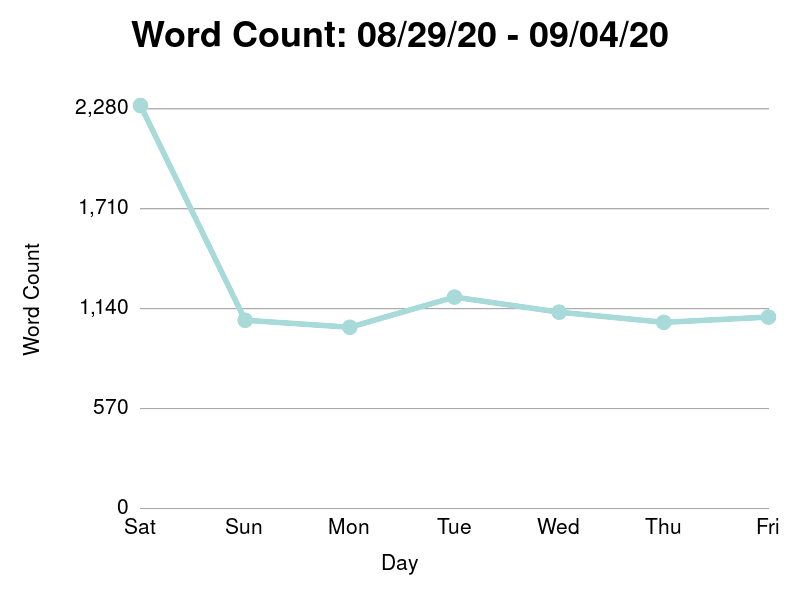
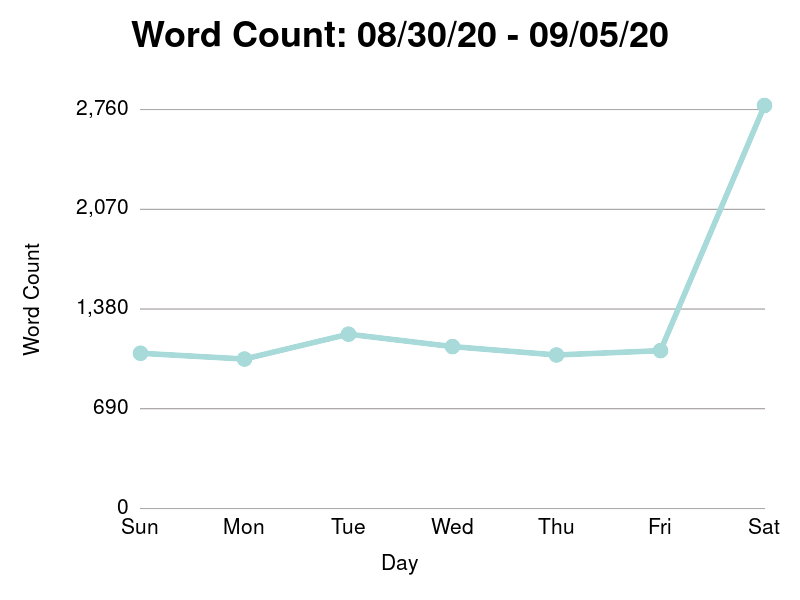
Starbs

diff --git a/entries/2020-09-05.md b/entries/2020-09-05.md
@@ -1,0 +1,331 @@
+---
+title: looking back on starbucks
+---
+
+Dear Journal,
+
+It was the Fall of 2006, and I was looking for my first job.  The day
+after turning sixteen years old, I jumped in my tiny Saturn Sedan
+sporting a crisp pair of khakis and a collared shirt.  A single
+printed sheet of paper lay on the seat beside me.  My "resume" boasted
+a respectable year long tenure of stocking vending machines at my
+church after school.  I even had references.
+
+I left my information with anyone who would talk to me.  Dunkin'
+Donuts.  Domino's Pizza.  Taco Bell.  I had a promising interaction
+with the surly owner of the family run breakfast diner by our
+neighborhood.  But as much as I liked the idea of forging my own way
+into a job, I took a glamorous position at Target on the coat tails of
+my sister Kelly.
+
+Kelly, who had also held down a job since the day she turned sixteen,
+was practically the queen of Target.  After school, she could be seen
+in her sharp red polo and neatly tied apron running the humble Pizza
+Hut express counter like a well oiled machine.  And even though the
+Pizza Hut counter was her usual beat, she was often asked to fill in
+on register, and stocking shelves.  She was a well known, well liked
+face of the Schaumburg Target.
+
+"So you're Kelly's brother," said the store manager.  Kelly's brother
+was promptly hired the following weekend on a recommendation from
+Kelly.
+
+As a general Target employee, I was a big stinking failure.  Despite
+living next to the store all my life, I didn't know where anything
+was.  I could barely count money.  I didn't know how to fold clothes.
+For the first month, my frequent changes in responsibility gave me the
+feeling that Target was just sort of putting up with me, "Kelly's
+brother".
+
+One week they moved me to the tiny Starbucks counter.  I didn't know
+how to make anything, but I thrived for the sole reason the dark
+corner of the store was mostly unknown and untrafficked.  The idea of
+putting a Starbucks in our Target was still kind of an experiment, and
+they were still trying to warm people up to the idea with free samples
+and lots of advertisements.
+
+The store was kitty corner to Kelly's Pizza Hut express.  We even
+shared the same kitchen.  In between actually learning how to make the
+drinks on the Starbucks menu, Kelly and I would hang out in our shared
+kitchen.  She'd wash my dishes while I covered for her at the pizza
+hut counter.  On really slow nights, we would even play cards in the
+back room.
+
+As I got more comfortable with my identity as a _barista_, I started
+to kick around the idea of changing jobs.  I grew tired of the dark
+lonely corner in the back of our Target.  I wanted to work for a
+_real_ Starbucks.
+
+After a year at Target, I was hired at the closest Starbucks to my
+house - the Streets of Woodfield store.  A far cry from the my lonely
+Target corner, the Streets of Woodfield was large, exposed, and
+populated.  The giant Starbucks logo could be seen from over the
+highway.  The store sat in the middle of the heartbeat of our over
+crowded Chicago suburb.  It was a real scene.
+
+The store was quite a culture shock for me.  My coworkers were older.
+They had piercings and tattoos.  They cussed, made crass jokes, and
+smoked pot in their car on break, but they were also more professional
+than me.  They were faster at making drinks than I was.  They knew
+more about coffee than I did.  They could sweep, mop, wipe down, and
+stock the giant, sprawling cafe in the same amount of time it took me
+to find a pack of straws in the back room.  They were courteous and
+unshakably patient with even the most difficult of customers.
+
+Painfully, I ramped up to meeting the challenges of being a _real_
+barista.  It's a more challenging job than you'd think.  Unlike my
+last job, there was no "downtime".  At any hour of the day, there was
+always a long queue of people waiting at the register spilling out
+into the cafe.
+
+There was one evening where I was placed on the frappucino bar with a
+guy we borrowed from the smaller Arlington Heights store.  He was a
+grown man who greeted me confidently.  His chiseled jaw, deep voice,
+and friendly eyes made me wonder why he wasn't working as a doctor, a
+lawyer, or an male model.
+
+The evening rush hit, and the two of us were soon slammed with a slew
+of pre teens trying to buy frappucinos before the premier of the new
+Harry Potter movie.  I arranged a neat queue of plastic cups,
+furiously scribbling the appropriate codes on the cups - "XWC" for
+extra whip, "+1" for an extra shot of espresso, "1/2" for half-caf,
+and a single question mark for "ask me", meaning _this one is
+confusing, just "ask me" to explain it_.
+
+My new friend was like a scared deer in the middle of the highway.
+His mocha splattered hands were trembling.  His eyes were glassy and
+unfocused.  His face was flushed.  With a dozen frappucinos waiting to
+be made, he completely froze up.
+
+"Take over Alex," said the shift manager, escorting him to the back
+room to ease his nerves with a glass of ice water.
+
+I hung in there.  I learned the trade, practiced my techniques, and
+adapted to the hectic, late night lifestyle.  Over time, my Starbucks
+didn't feel like a war zone anymore.  Even when the line was out the
+door, it just felt like _work_.
+
+A little known fact - there's two sides to every Starbucks.  Most
+people are familiar with the morning crew.  They're chipper, clean
+cut, and very professional - even to each other.  They wear nice
+clothes, and like to read books and drink tea on their break.  And
+since their work day probably began at 4AM, they'll likely be in bed
+by 8PM on even a Friday night so they can do it all again in the
+morning.
+
+Then there's the evening crew.  Scrappier.  Less friendly.  Disheveled
+and wrinkled.  Cigarettes, ear buds, and untucked shirts.  We closed
+the store at midnight, and we couldn't go home until everything was
+cleaned and packed away, which sometimes wasn't until 2 or 3 in the
+morning.  We were more familiar with the true filth of the store.
+Each night I scrubbed questionable material off our toilets and
+urinals with bleach.  I battled swarms of fruit flies to scrape dried
+sugar and caramel off the floor drains.  We dealt with rotting food
+and expired milk.  Every Saturday, Tommy and I would hose off the
+unspeakable horrors in our garbage room.  And on top of everything, we
+still had to act like we had a culinary interest in the Starbucks
+menu.
+
+"I'm a _Komodo Dragon_ drinker myself - do you think I would enjoy the
+_Sumatra_?"
+
+My snippy internal monologue was my private sanctuary.  _I don't know
+sir.  I exclusively drink black espresso over ice to stay awake at
+work.  But since both those blends tasted like dirt and rain water, I
+think you'll love it._
+
+Ironically, my favorite night to work was on "honey wagon" night.
+Once a year, a red truck would park in front of the store, and a
+friendly guy in a pair of dickies made his way to our back room to
+pump our grease trap empty.  The smell was so bad that customers would
+voluntarily clear the dining room.  The smell was so foul, that some
+of the baristas would tape Tazo tea bags to their face to mask it.
+But a bad smell was a small price to pay for the rarity of not needing
+to service a giant line of customers.
+
+One "honey wagon night", I was washing dishes while they guy was at
+work on our grease trapped.  Fascinated, I watched him pop the metal
+lid and snake the thick pipe into the hole, slipping beneath the
+glossy sludge.
+
+"So that's all just food grease?" I shouted over the motor.
+
+"OH YEAH," he yelled.  "And this isn't even that bad.  You should see
+what they're dealin' with over at that that burger joint.  WOAH
+NELLY!"
+
+The motor lurched to a stop.  "AH we got a CLOG!" he shouted at the
+same volume, rolling up his sleeve.  He reached his arm down into the
+hole.
+
+"Hey, if you see a watch down there, lemme know," I said, smirking.
+The man turned sharply, and after a moment broke out into wild
+maniacal laughter.
+
+"OH I'LL GET YOU YOUR WATCH," he cackled.  "WHAT IS IT A ROLEX?  HA HA
+HA HA WHAT IS YOUR ROLEX DOING DOWN THERE BUDDY."  It was clear from
+his reaction that he didn't get to chat with a lot of people on the
+job.
+
+But when it comes to working evenings at Starbucks, the amount of free
+food you had access to was unmatched.  Each night as part of our
+duties, we'd have to rotate all the expired food out of the pastry
+case and fridge.  Once the items were tallied up, they were off
+unsellable.  But Starbucks management never gave us a convincing
+reason why we weren't supposed to eat it and take it home, and for
+that reason, we treated it like it was ours.
+
+Trays of soft blueberry muffins.  Towering stacks of chocolate chip
+cookies.  Sandwiches, wraps, and appetizers.  For a ravenous sleep
+deprived college kid, the Starbucks closing shift was paradise.
+
+{% include figure.html
+filename='starbucks/feast.jpg'
+caption='Bacon wrapped dates and artichoke flat bread: a typical late
+night snack while closing.' %}
+
+After my closing shift on Sunday nights, I'd leave right from work and
+make the long, quiet drive back to college.  Before climbing into bed
+at 4 in the morning, I'd leave a plastic garbage bag full of day old
+Starbucks treats in our dorm room lobby.  By the time I'd wake up for
+early morning lab, the bag of treats would be picked clean.  Some
+referred to me as the late night Starbucks _Santa Clause_.
+
+There was one year where Starbucks was launching their new lime ice
+refreshers.  "It's a unroasted coffee extract," went the sales pitch.
+"All the same caffeine, but pairs better with fruit.  It's a
+refreshing and energizing summer drink."
+
+The drink was made from a concentrate - a thick viscous green liquid
+we'd pour from little plastic bottles.  It looked like anti freeze, or
+something out of a science fiction novel, but as you could imagine the
+concentrated version of the icy summer drink packed a wild caffeine
+punch.
+
+One night, I returned to college with a trunk full of expired lime
+refresher concentrate.  The drink wasn't as popular as predicted, and
+as a result we had a whole shelf of concentrate expire.  Heading into
+finals week, it was perfect timing, and I had no trouble finding tired
+college students in search of something stronger than coffee.  The
+expired concentrate made its rounds around campus.  Students would
+help themselves to _the green stuff_ right out of the trunk of my car.
+
+Over the years, I reported to many different evening shift managers.
+Some pressed us to clean the store as quickly as possible so we could
+go home.  Others were going to be up late anyway and were in no hurry.
+Most of them had a high tolerance for screwing around on the job.
+
+There was one night where Rachel sculpted my likeness into a munged
+pile of expired blueberry muffins and apple turnovers.
+
+{% include figure.html
+filename='starbucks/portrait.jpg'
+caption="Perfection, isn't it?" %}
+
+Here's me sporting a temporary tattoo on my forehead.  Most customers
+laughed, but one tough looking biker I served that night just smiled
+and said _hey, that's a bitchin' tattoo, brother_.
+
+Sometimes I'd have to throw away big boxes of unused chocolate syrup.
+I don't know if I can adequately explain why, but it's tough throwing
+out a giant bucket of chocolate without first dunking your arm into
+it.  It was a childish impulse.  We called these _mocha parties_.
+
+{% include figure.html filename='starbucks/mocha-party.jpg' %}
+
+{% include figure.html filename='starbucks/mocha-party-2.jpg' %}
+
+Some weeks in the summer, I'd work fifty hour weeks, twelve hour
+shifts.  I saw my coworkers a lot.  We were bored and overworked.  In
+searching for things to quench the mundane moments, we sometimes got a
+little weird.  In some of my pictures, I can't even remember what we
+were doing.
+
+{% include figure.html
+filename='starbucks/hiding.jpg'
+caption='Hide and seek?' %}
+
+{% include figure.html
+filename='starbucks/yoga.png'
+caption='I think we were inventing a new kind of yoga.' %}
+
+I grew close to many customers too.  There was Vicki, probably one of
+the sweetest ladies I've ever met, who would ask her venti skinny
+vanilla latte be made at legally the hottest temperature we were
+allowed to serve a bar drink.  The second her cup hit the table, she
+would take a big gulp to test it was hot enough.  If it wasn't hot
+enough, she would scowl and shake her head, handing the cup back to
+me.  "Sorry, honey.  Remake this, it needs to be hotter."
+
+There was Tony, a seemingly average looking guy who would post up at
+the bar and ask for a the very Christmassy peppermint mocha, even in
+the hot summer months.  Through small talk, I learned that he was the
+CEO of an international company, and the owner of the towering Zurich
+building that overlooked the mall.  Suddenly it made sense how he
+could confidently help himself to such a drink that was really meant
+for teen girls.
+
+One quiet night while sweeping the cafe, I was chatting with my friend
+Hemant.  He was sharply dressed and carried a leather briefcase, and I
+would frequently ask Hemant for carreer advice.
+
+"I have an interview, Hemant," I said.
+
+"This is great news, Alex.  Great news.  Tell me, what is the
+position?" he said, leaning in.
+
+"A software engineer.  It's a little different than what I went to
+school for, but I think I'll really like it," I replied.
+
+"Ah, that's good work," said Hemant.  "That' a good industry to go
+into."
+
+"I was wondering if I should get a haircut before the interview?" I
+asked, motioning to my long blond hair that I had let grow out all of
+college.
+
+"I wouldn't do that," he said quickly.  "Leave it long."
+
+"Really," I replied, shocked.  "Why is that?"
+
+"Guys who deal with the money, they want them to look like me," he
+said.  "I'm clean cut.  I iron my shirts.  I stay on the phone all the
+time to look available.  Investors like that.  But they guy who is in
+charge of the code and the software and all the technical details?
+They want somebody like you, who is laid back.  They want someone who
+is not easily stressed out.  They want a young kid who can stay up
+late.  They want... you know, cool skater kids like you."
+
+Hemant leaned in to emphasize his point.  "Alex, don't cut your hair.
+Just be cool - they'll like that."
+
+Hemant gave good advice.  I went to the interview without cutting my
+hair.  I was offered the job.  With a heavy heart, I put in my two
+weeks at Starbucks.
+
+I worked at Starbucks for three years during high school.  I took a
+short year off my Freshmen year of college, then worked through the
+rest of my time in school until the summer I graduated.  In total,
+that's six years working as a Starbucks barista.  Sometimes I forget
+that technically, I've never held down a job for as long as I did at
+Starbucks.  I've only been a software engineer for, in total, one year
+longer.  One could argue that even now, I'm still more tenured as a
+barista than what I'm doing now.
+
+{% include figure.html
+filename='starbucks/selfie.jpg' %}
+
+Finishing up my final shift at the store, I penned a quick letter with
+a sharpie, leaving it pinned to our bulletin board in the back room.
+In my overly flowerly letter, I sign off with a quote from the mighty
+ducks movie.
+
+"No matter how far you fly, never forget the pond you came from."
+
+I don't remember the bad things about Starbucks anymore - long hours,
+difficult customers, and mentally clawing at the walls out of boredom.
+With the more painful day to day memories behind me, I only remember
+the good things now.  I only remember the friendships, the free food,
+and the delirious late night laughter.  Most surprising of all, I feel
+grateful.  The Streets of Woodfield Starbucks was my first pond, and I
+couldn't forget it, even if I tried.
